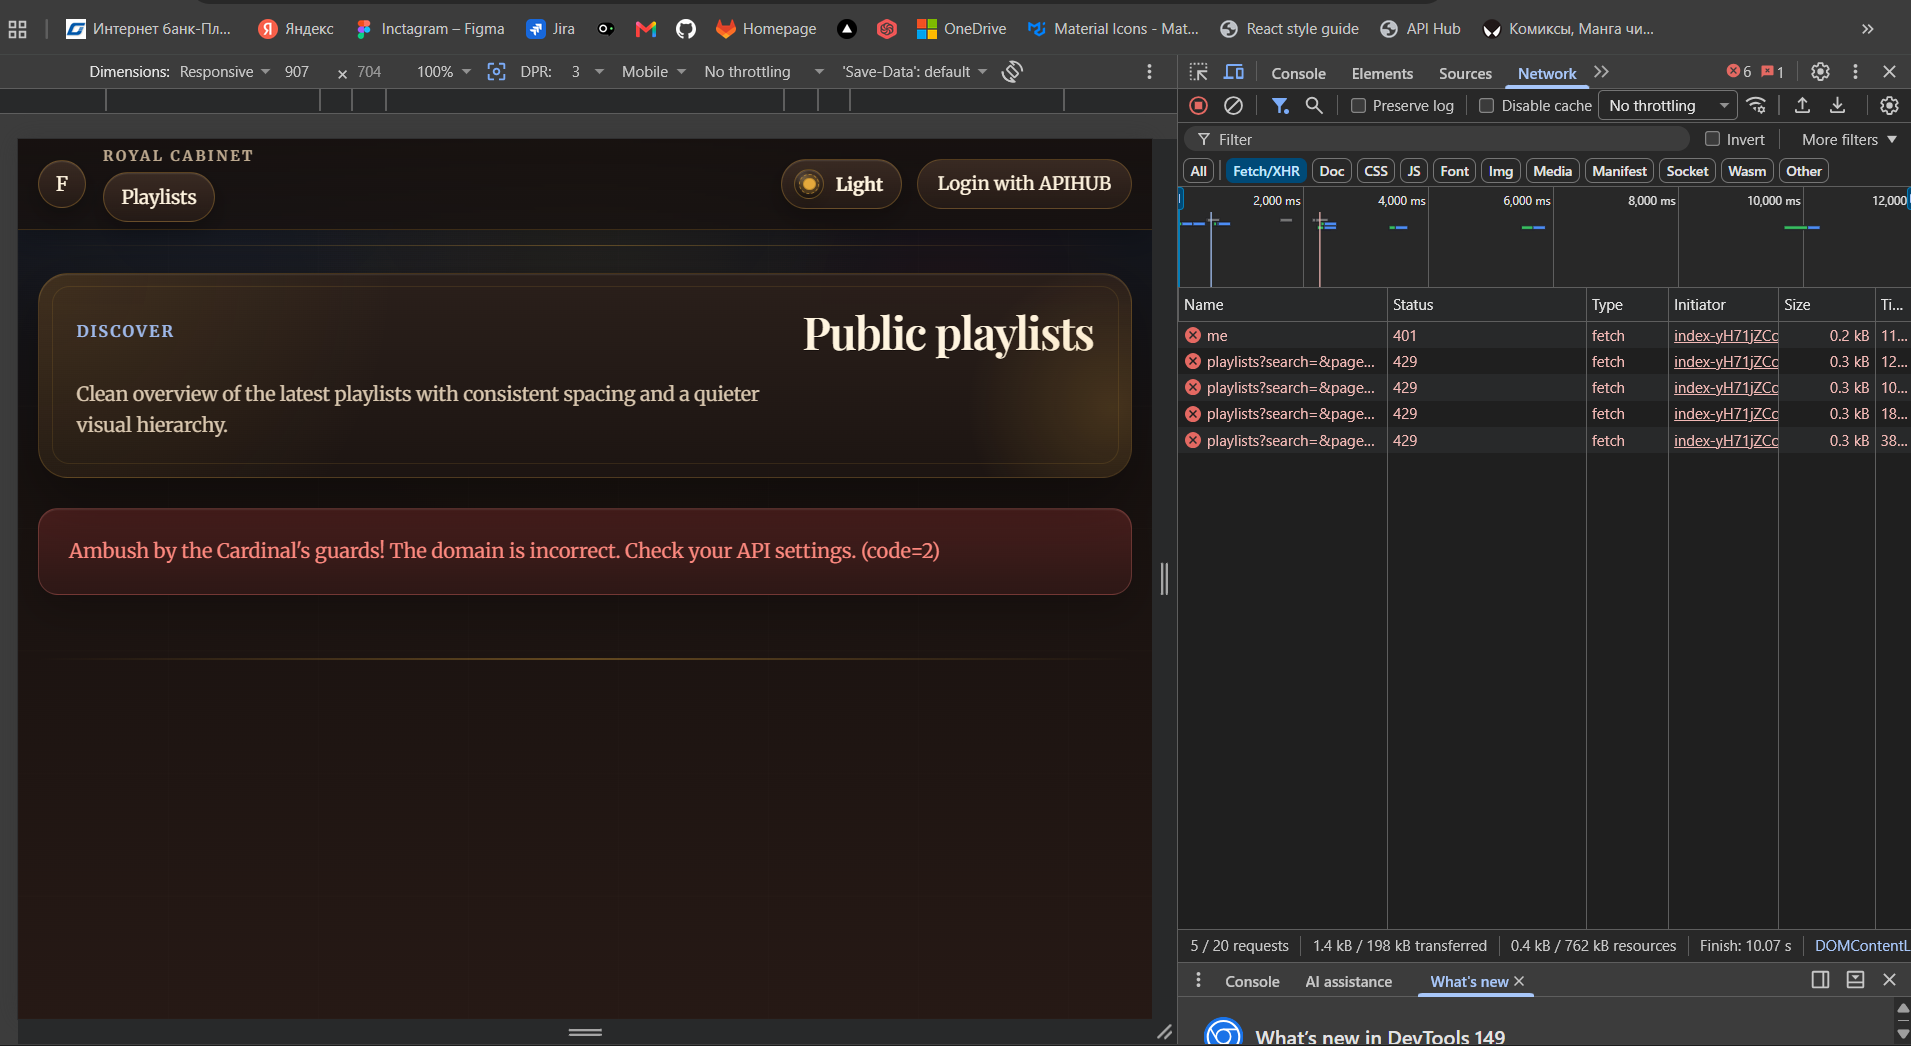
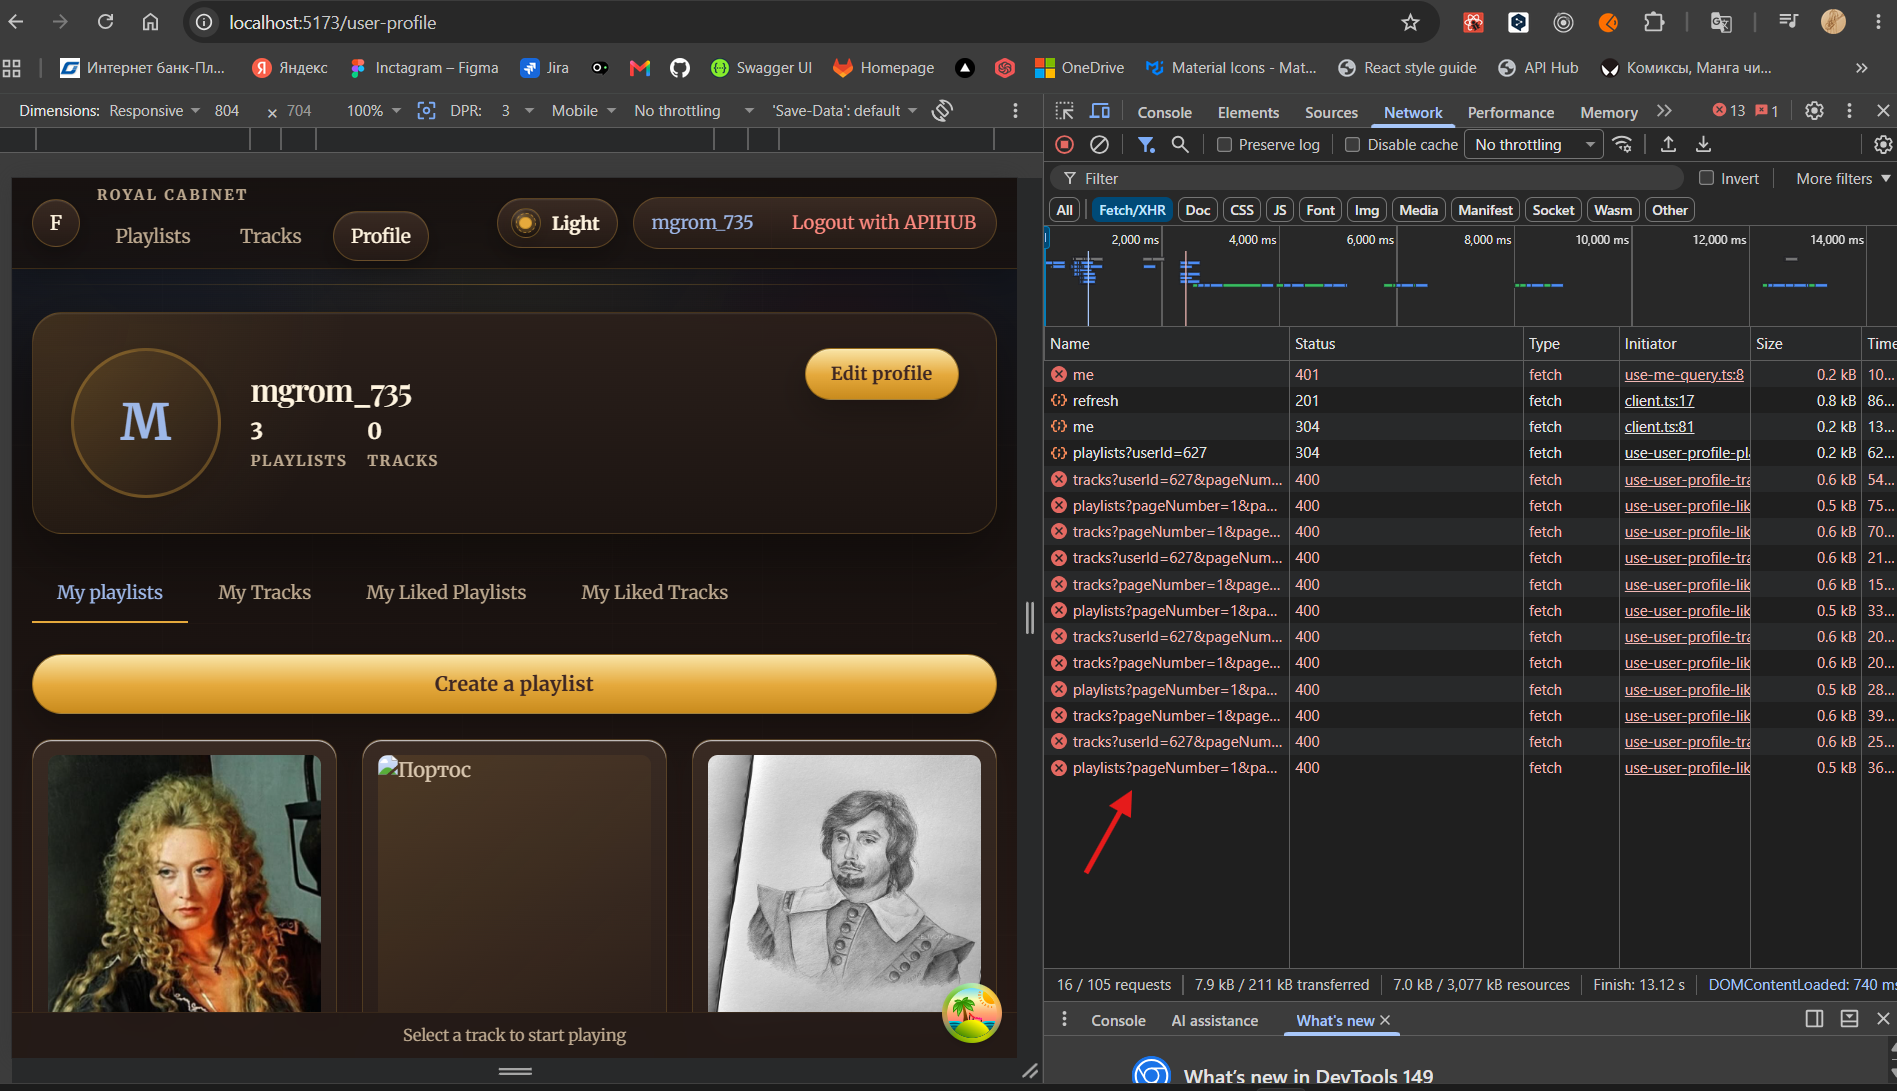
fix: add missing sortBy/sortDirection to profile liked queries, disable retries
- Liked playlists query was missing required sortBy/sortDirection params causing 400 errors
- Reduce pageSize to 20 for tracks queries
- Disable retry on all profile queries to avoid cascading failed requests

diff --git a/src/widgets/user-profile/api/use-user-profile-liked-playlists-query.ts b/src/widgets/user-profile/api/use-user-profile-liked-playlists-query.ts
@@ -11,6 +11,8 @@ export const useUserProfileLikedPlaylistsQuery = (userId: string | undefined) =>
                     query: {
                         pageNumber: 1,
                         pageSize: 100,
+                        sortBy: 'addedAt',
+                        sortDirection: 'desc',
                         onlyLikedByMe: true,
                     },
                 },
@@ -20,5 +22,6 @@ export const useUserProfileLikedPlaylistsQuery = (userId: string | undefined) =>
             return response.data
         },
         enabled: !!userId,
+        retry: false,
     })
 }

diff --git a/src/widgets/user-profile/api/use-user-profile-liked-tracks-query.ts b/src/widgets/user-profile/api/use-user-profile-liked-tracks-query.ts
@@ -10,7 +10,7 @@ export const useUserProfileLikedTracksQuery = (userId: string | undefined) => {
                 params: {
                     query: {
                         pageNumber: 1,
-                        pageSize: 100,
+                        pageSize: 20,
                         sortBy: 'publishedAt',
                         sortDirection: 'desc',
                         paginationType: 'offset',
@@ -23,5 +23,6 @@ export const useUserProfileLikedTracksQuery = (userId: string | undefined) => {
             return response.data
         },
         enabled: !!userId,
+        retry: false,
     })
 }

diff --git a/src/widgets/user-profile/api/use-user-profile-tracks-query.ts b/src/widgets/user-profile/api/use-user-profile-tracks-query.ts
@@ -11,7 +11,7 @@ export const useUserProfileTracksQuery = (userId: string | undefined) => {
                     query: {
                         userId: userId!,
                         pageNumber: 1,
-                        pageSize: 100,
+                        pageSize: 20,
                         sortBy: 'publishedAt',
                         sortDirection: 'desc',
                         paginationType: 'offset',
@@ -23,5 +23,6 @@ export const useUserProfileTracksQuery = (userId: string | undefined) => {
             return response.data
         },
         enabled: !!userId,
+        retry: false,
     })
 }

diff --git a/src/widgets/user-profile/api/use-user-profile-playlists-query.ts b/src/widgets/user-profile/api/use-user-profile-playlists-query.ts
@@ -14,5 +14,6 @@ export const useUserProfilePlaylistsQuery = (userId: string | undefined) => {
             return response.data
         },
         enabled: !!userId,
+        retry: false,
     })
 }